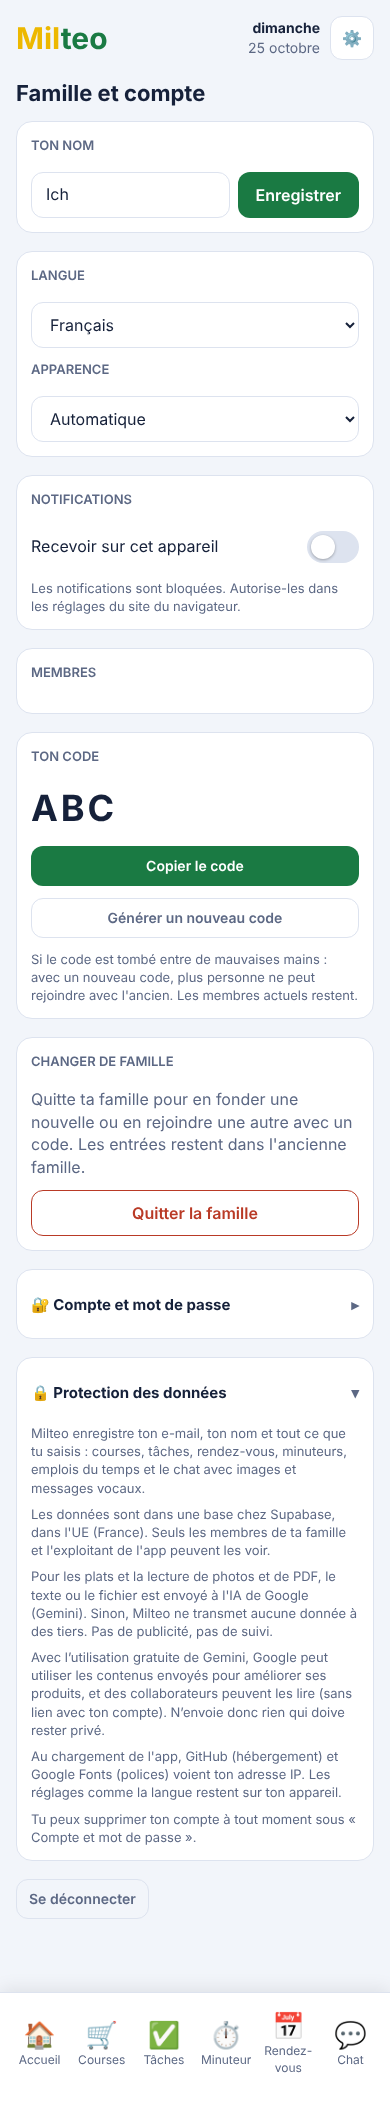
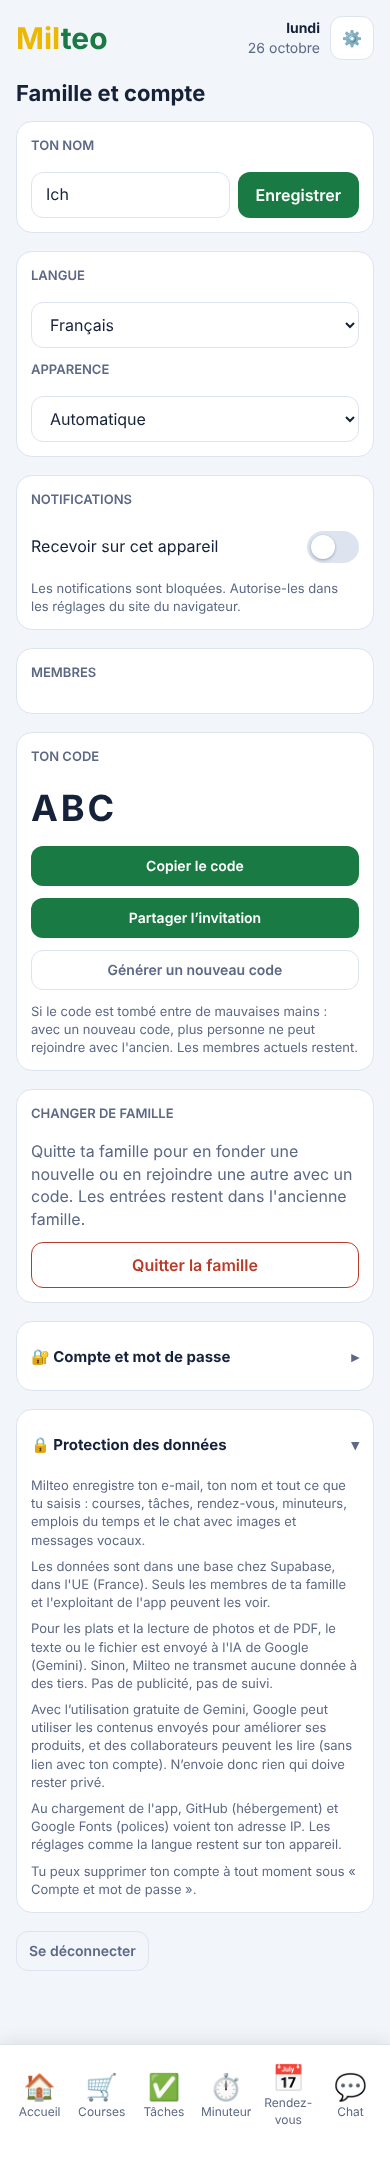
Schritt 10: Rollen (Admin/Mitglied), Mitglieder verwalten, Einladungslink
Claude-Session: https://claude.ai/code/session_017jd6qMoayf2hqt6XYe68pU

diff --git a/index.html b/index.html
@@ -552,8 +552,10 @@ input.switch:focus-visible { outline-offset: 3px; }
         <p class="field-label">Dein Code</p>
         <div class="code" id="fam-code">-</div>
         <button class="btn small" id="fam-copy" type="button">Code kopieren</button>
+        <button class="btn small" id="fam-share" type="button">Einladung teilen</button>
         <button class="btn ghost small" id="fam-newcode" type="button">Neuen Code erzeugen</button>
-        <p class="hint">Falls der Code in falsche Hände geraten ist: Mit einem neuen Code können keine weiteren Personen mit dem alten beitreten. Aktuelle Mitglieder bleiben dabei.</p>
+        <p class="hint" id="fam-newcode-hint">Falls der Code in falsche Hände geraten ist: Mit einem neuen Code können keine weiteren Personen mit dem alten beitreten. Aktuelle Mitglieder bleiben dabei.</p>
+        <p class="hint" id="fam-admin-only" hidden>Nur Admins können einen neuen Code erzeugen und Mitglieder verwalten.</p>
       </div>
       <div class="card">
         <p class="field-label">Familie wechseln</p>
@@ -1137,7 +1139,7 @@ input.switch:focus-visible { outline-offset: 3px; }
       if (!row) {
         appReady = false; try { localStorage.removeItem('milteo_fam'); } catch (_) {}
         document.getElementById('fam-hello').textContent = T('Hallo') + ' ' + myName;
-        showScreen('family');
+        showScreen('family'); prefillInvite();
         return;
       }
       fid = row.family_id;
@@ -1405,10 +1407,25 @@ input.switch:focus-visible { outline-offset: 3px; }
   document.getElementById('fam-newcode').onclick = async () => {
     if (!confirm(T('Neuen Familiencode erzeugen? Der alte Code funktioniert danach nicht mehr. Aktuelle Mitglieder bleiben in der Familie.'))) return;
     const r = await sb.rpc('regenerate_family_code');
-    if (r.error || !r.data) { toast(T('Das hat nicht geklappt')); return; }
+    if (r.error || !r.data) { toast(roleErr(r.error)); return; }
     document.getElementById('fam-code').textContent = r.data;
     toast(T('Neuer Code: ') + r.data, 5000);
   };
+  document.getElementById('fam-share').onclick = async () => {
+    const code = document.getElementById('fam-code').textContent.trim();
+    const url = location.origin + location.pathname + '?code=' + encodeURIComponent(code);
+    const text = T('Komm in unsere Familie bei Milteo! Code: {code}', { code }) + '\n' + url;
+    try { if (navigator.share) { await navigator.share({ title: 'Milteo', text }); return; } } catch (e) { if (e && e.name === 'AbortError') return; }
+    try { await navigator.clipboard.writeText(text); toast(T('Einladung kopiert!')); } catch (_) { toast(T('Das hat nicht geklappt')); }
+  };
+  // Einladungslink: ?code=XXXX füllt das Beitritts-Feld vor
+  try {
+    const pc = new URLSearchParams(location.search).get('code');
+    if (pc) { sessionStorage.setItem('milteo_invite', pc.slice(0, 20)); history.replaceState(null, '', location.pathname); }
+  } catch (_) {}
+  function prefillInvite() {
+    try { const c = sessionStorage.getItem('milteo_invite'); const el = document.getElementById('in-code'); if (c && el && !el.value) el.value = c; } catch (_) {}
+  }
   document.getElementById('fam-copy').onclick = () => {
     navigator.clipboard.writeText(document.getElementById('fam-code').textContent);
     toast(T('Code kopiert!'));
@@ -1418,13 +1435,55 @@ input.switch:focus-visible { outline-offset: 3px; }
   async function loadMembers() {
     if (!fid) return;
     lastMembers = Date.now();
-    const r = await sb.from('members').select('user_id, display_name, created_at').eq('family_id', fid).order('created_at');
+    let r = await sb.from('members').select('user_id, display_name, created_at, role').eq('family_id', fid).order('created_at');
+    if (r.error) r = await sb.from('members').select('user_id, display_name, created_at').eq('family_id', fid).order('created_at');
     const el = document.getElementById('list-members');
     if (!r.error) { memberCount = r.data.length; memberNames = {}; r.data.forEach(m => { memberNames[m.user_id] = m.display_name || ''; }); renderAll(); }
     if (r.error) { el.innerHTML = '<div class="empty">' + T('Mitglieder konnten nicht geladen werden.') + '</div>'; return; }
-    el.innerHTML = '<ul class="list">' + r.data.map(m => `
-      <li class="row"><span class="txt">${esc(m.display_name || T('Ohne Namen'))}${m.user_id === myId ? `<span class="who">${T('(du)')}</span>` : ''}</span></li>`).join('') + '</ul>';
+    const hasRoles = r.data.some(m => m.role);
+    const me = r.data.find(m => m.user_id === myId);
+    const iAmAdmin = !!(me && me.role === 'admin');
+    applyRoleUi(hasRoles, iAmAdmin);
+    el.innerHTML = '<ul class="list">' + r.data.map(m => {
+      const adm = m.role === 'admin';
+      const badge = hasRoles ? `<span class="who">${adm ? T('Admin') : T('Mitglied')}</span>` : '';
+      let btns = '';
+      if (iAmAdmin && m.user_id !== myId) {
+        btns = `<div style="display:flex; gap:6px; flex-wrap:wrap; margin-top:6px;">
+          <button class="btn ghost small" type="button" data-mrole="${esc(m.user_id)}" data-to="${adm ? 'member' : 'admin'}">${adm ? T('Admin-Rechte entziehen') : T('Zum Admin machen')}</button>
+          <button class="btn danger small" type="button" data-mrem="${esc(m.user_id)}" data-name="${esc(m.display_name || '')}">${T('Aus Familie entfernen')}</button></div>`;
+      }
+      return `<li class="row" style="flex-wrap:wrap"><span class="txt">${esc(m.display_name || T('Ohne Namen'))}${m.user_id === myId ? `<span class="who">${T('(du)')}</span>` : ''}${badge}</span>${btns}</li>`;
+    }).join('') + '</ul>';
   }
+  function applyRoleUi(hasRoles, iAmAdmin) {
+    const canCode = !hasRoles || iAmAdmin;
+    document.getElementById('fam-newcode').hidden = !canCode;
+    document.getElementById('fam-newcode-hint').hidden = !canCode;
+    document.getElementById('fam-admin-only').hidden = canCode;
+  }
+  function roleErr(err) {
+    const m = String((err && err.message) || '');
+    if (/last admin/i.test(m)) return T('Es muss mindestens ein Admin übrig bleiben.');
+    if (/not allowed/i.test(m)) return T('Das dürfen nur Admins.');
+    return T('Das hat nicht geklappt');
+  }
+  document.getElementById('list-members').addEventListener('click', async (e) => {
+    const b = e.target.closest('button'); if (!b) return;
+    if (b.dataset.mrole) {
+      const r = await sb.rpc('set_member_role', { p_user: b.dataset.mrole, p_role: b.dataset.to });
+      if (r.error) { toast(roleErr(r.error)); return; }
+      toast(b.dataset.to === 'admin' ? T('Ist jetzt Admin.') : T('Ist kein Admin mehr.'));
+      loadMembers();
+    } else if (b.dataset.mrem) {
+      const nm = b.dataset.name || T('Ohne Namen');
+      if (!confirm(T('{name} wirklich aus der Familie entfernen? Die Einträge bleiben erhalten.', { name: nm }))) return;
+      const r = await sb.rpc('remove_member', { p_user: b.dataset.mrem });
+      if (r.error) { toast(roleErr(r.error)); return; }
+      toast(T('{name} wurde entfernt.', { name: nm }));
+      loadMembers();
+    }
+  });
 
   // ---------- Daten (Tabelle "entries") ----------
   const esc = s => String(s).replace(/[&<>"']/g, c => ({'&':'&amp;','<':'&lt;','>':'&gt;','"':'&quot;',"'":'&#39;'}[c]));

diff --git a/i18n.js b/i18n.js
@@ -343,6 +343,21 @@
     ['Fortsetzen: {name}', 'Продолжи: {name}', 'Reprendre : {name}', 'Riprendi: {name}', 'Nastavi: {name}', 'Vazhdo: {name}', 'Devam et: {name}', 'Resume: {name}'],
     ['+1 Minute: {name}', '+1 минута: {name}', '+1 minute : {name}', '+1 minuto: {name}', '+1 minut: {name}', '+1 minutë: {name}', '+1 dakika: {name}', '+1 minute: {name}'],
     ['Nochmal starten: {name}', 'Стартувај повторно: {name}', 'Relancer : {name}', 'Riavvia: {name}', 'Pokreni ponovo: {name}', 'Nise përsëri: {name}', 'Yeniden başlat: {name}', 'Restart: {name}'],
+    ['Admin', 'Админ', 'Admin', 'Admin', 'Admin', 'Admin', 'Yönetici', 'Admin'],
+    ['Mitglied', 'Член', 'Membre', 'Membro', 'Član', 'Anëtar', 'Üye', 'Member'],
+    ['Zum Admin machen', 'Направи го админ', 'Nommer admin', 'Rendi admin', 'Postavi za admina', 'Bëje admin', 'Yönetici yap', 'Make admin'],
+    ['Admin-Rechte entziehen', 'Одземи админ права', 'Retirer les droits d’admin', 'Rimuovi i diritti di admin', 'Ukloni admin prava', 'Hiq të drejtat e adminit', 'Yönetici yetkisini al', 'Remove admin rights'],
+    ['Aus Familie entfernen', 'Отстрани од семејството', 'Retirer de la famille', 'Rimuovi dalla famiglia', 'Ukloni iz porodice', 'Hiq nga familja', 'Aileden çıkar', 'Remove from family'],
+    ['Es muss mindestens ein Admin übrig bleiben.', 'Мора да остане барем еден админ.', 'Il doit rester au moins un admin.', 'Deve restare almeno un admin.', 'Mora da ostane bar jedan admin.', 'Duhet të mbetet të paktën një admin.', 'En az bir yönetici kalmalı.', 'At least one admin must remain.'],
+    ['Das dürfen nur Admins.', 'Ова можат само админите.', 'Seuls les admins peuvent faire cela.', 'Solo gli admin possono farlo.', 'Ovo mogu samo admini.', 'Këtë mund ta bëjnë vetëm adminët.', 'Bunu sadece yöneticiler yapabilir.', 'Only admins can do this.'],
+    ['Ist jetzt Admin.', 'Сега е админ.', 'Est maintenant admin.', 'Ora è admin.', 'Sada je admin.', 'Tani është admin.', 'Artık yönetici.', 'Is now an admin.'],
+    ['Ist kein Admin mehr.', 'Повеќе не е админ.', 'N’est plus admin.', 'Non è più admin.', 'Više nije admin.', 'Nuk është më admin.', 'Artık yönetici değil.', 'Is no longer an admin.'],
+    ['{name} wirklich aus der Familie entfernen? Die Einträge bleiben erhalten.', 'Навистина да се отстрани {name} од семејството? Записите остануваат.', 'Vraiment retirer {name} de la famille ? Les entrées sont conservées.', 'Rimuovere davvero {name} dalla famiglia? Le voci restano.', 'Zaista ukloniti {name} iz porodice? Unosi ostaju.', 'Ta heqësh vërtet {name} nga familja? Shënimet mbeten.', '{name} gerçekten aileden çıkarılsın mı? Kayıtlar korunur.', 'Really remove {name} from the family? The entries stay.'],
+    ['{name} wurde entfernt.', '{name} е отстранет.', '{name} a été retiré.', '{name} è stato rimosso.', '{name} je uklonjen.', '{name} u hoq.', '{name} çıkarıldı.', '{name} was removed.'],
+    ['Einladung teilen', 'Сподели покана', 'Partager l’invitation', 'Condividi invito', 'Podeli pozivnicu', 'Ndaj ftesën', 'Daveti paylaş', 'Share invite'],
+    ['Einladung kopiert!', 'Поканата е копирана!', 'Invitation copiée !', 'Invito copiato!', 'Pozivnica kopirana!', 'Ftesa u kopjua!', 'Davet kopyalandı!', 'Invite copied!'],
+    ['Komm in unsere Familie bei Milteo! Code: {code}', 'Дојди во нашето семејство на Milteo! Код: {code}', 'Rejoins notre famille sur Milteo ! Code : {code}', 'Entra nella nostra famiglia su Milteo! Codice: {code}', 'Pridruži se našoj porodici na Milteu! Kod: {code}', 'Bashkohu familjes sonë në Milteo! Kodi: {code}', 'Milteo’da ailemize katıl! Kod: {code}', 'Join our family on Milteo! Code: {code}'],
+    ['Nur Admins können einen neuen Code erzeugen und Mitglieder verwalten.', 'Само админите можат да создадат нов код и да управуваат со членовите.', 'Seuls les admins peuvent créer un nouveau code et gérer les membres.', 'Solo gli admin possono creare un nuovo codice e gestire i membri.', 'Samo admini mogu da naprave novi kod i upravljaju članovima.', 'Vetëm adminët mund të krijojnë kod të ri dhe të menaxhojnë anëtarët.', 'Yeni kodu ve üyeleri sadece yöneticiler yönetebilir.', 'Only admins can create a new code and manage members.'],
     ['__end__', '', '', '', '', '', '', '']
   ];
   R.pop();

diff --git a/tests/test_rollen.py b/tests/test_rollen.py
@@ -1,0 +1,98 @@
+import os
+HERE = os.path.dirname(os.path.abspath(__file__))
+ROOT = os.path.dirname(HERE)
+URL = 'file://' + ROOT + '/index.html'
+from playwright.sync_api import sync_playwright
+base = open(os.path.join(HERE, 'stub7.js'), encoding='utf-8').read()
+# Mitglieder mit Rollen + aufgezeichnete Rollen-Aufrufe
+extra = """
+(() => {
+  const orig = window.supabase.createClient;
+  window.__members = [
+    {user_id:'me', display_name:'Ich', created_at:'2026-01-01', role:'admin'},
+    {user_id:'u2', display_name:'Papa', created_at:'2026-01-02', role:'member'},
+    {user_id:'u3', display_name:'Oma', created_at:'2026-01-03', role:'admin'}];
+  window.__roleCalls = []; window.__roleErr = null; window.__noRoleCol = false;
+  window.supabase.createClient = (...a) => {
+    const c = orig(...a); const of = c.from; const orpc = c.rpc;
+    c.from = (t) => {
+      if (t !== 'members') return of(t);
+      let cols = '';
+      const p = new Proxy({}, { get: (_, k) => {
+        if (k === 'then') return (res) => res(window.__noRoleCol && /role/.test(cols) ? {data:null,error:{message:'column role does not exist'}} : {data: JSON.parse(JSON.stringify(window.__members)), error:null});
+        if (k === 'maybeSingle') return async () => ({ data: window.__nofam ? null : { family_id:'f', families:{code:'ABCD-EFGH'}, display_name:'Ich' }, error:null });
+        return (...x) => { if (k === 'select') cols = x[0]; return p; };
+      }});
+      return p;
+    };
+    c.rpc = async (n, args) => {
+      if (n === 'set_member_role' || n === 'remove_member' || n === 'regenerate_family_code') {
+        window.__roleCalls.push([n, args]);
+        if (window.__roleErr) return {data:null, error:{message: window.__roleErr}};
+        return {data: n === 'regenerate_family_code' ? 'NEUE-CODE' : null, error:null};
+      }
+      return orpc(n, args);
+    };
+    return c;
+  };
+})();
+"""
+stub = base + extra
+ok = True
+def check(name, cond):
+    global ok; ok = ok and bool(cond); print(('PASS ' if cond else 'FAIL ') + name)
+def mk(b, init, url=URL):
+    ctx = b.new_context(viewport={'width':390,'height':780}, has_touch=True, is_mobile=True)
+    pg = ctx.new_page(); errs = []
+    pg.on('pageerror', lambda e: errs.append(str(e)))
+    pg.route('**/supabase.min.js', lambda r: r.fulfill(body=stub, content_type='text/javascript'))
+    pg.route('**/fonts.googleapis.com/**', lambda r: r.fulfill(body='', content_type='text/css'))
+    pg.add_init_script(init)
+    pg.on('dialog', lambda d: d.accept())
+    pg.goto(url); pg.wait_for_timeout(800)
+    return pg, errs
+SESS = "window.__sess={user:{id:'me',email:'a@b.ch',user_metadata:{name:'Ich'}}};"
+with sync_playwright() as p:
+    b = p.chromium.launch()
+    # Admin-Sicht
+    pg, errs = mk(b, SESS)
+    pg.evaluate("switchTab('family')"); pg.wait_for_timeout(500)
+    t = pg.inner_text('#list-members')
+    check('Rollen-Abzeichen sichtbar', 'Admin' in t and 'Mitglied' in t)
+    check('Admin sieht Buttons für andere (2x2), nicht für sich', pg.locator('[data-mrole]').count() == 2 and pg.locator('[data-mrem]').count() == 2)
+    check('Neuer-Code-Knopf sichtbar für Admin', pg.is_visible('#fam-newcode'))
+    pg.click('[data-mrole=u2]'); pg.wait_for_timeout(300)
+    check('Zum Admin machen -> rpc set_member_role admin', pg.evaluate("JSON.stringify(window.__roleCalls[0])") == '["set_member_role",{"p_user":"u2","p_role":"admin"}]')
+    pg.click('[data-mrem=u2]'); pg.wait_for_timeout(300)
+    check('Entfernen -> rpc remove_member', pg.evaluate("JSON.stringify(window.__roleCalls[1])") == '["remove_member",{"p_user":"u2"}]')
+    pg.evaluate("window.__roleErr='last admin'"); pg.click('[data-mrole=u3]'); pg.wait_for_timeout(300)
+    toast = pg.inner_text('#toast') if pg.locator('#toast').count() else ''
+    print('   Toast:', toast)
+    check('Fehler «last admin» freundlich', 'mindestens ein Admin' in toast)
+    pg.evaluate("window.__roleErr='not allowed'"); pg.click('#fam-newcode'); pg.wait_for_timeout(300)
+    toast = pg.inner_text('#toast')
+    check('Fehler «not allowed» freundlich, kein Technik-Text', 'nur Admins' in toast and 'not allowed' not in toast)
+    check('keine JS-Fehler (Admin)', not errs)
+    # Normales Mitglied
+    pg, errs = mk(b, SESS + "window.__pre=1;")
+    pg.evaluate("window.__members[0].role='member'; window.__members[1].role='admin'; loadMembers()"); pg.evaluate("switchTab('family')"); pg.wait_for_timeout(600)
+    check('Mitglied: keine Verwaltungs-Buttons', pg.locator('[data-mrole]').count() == 0 and pg.locator('[data-mrem]').count() == 0)
+    check('Mitglied: Neuer-Code-Knopf versteckt, Hinweis da', not pg.is_visible('#fam-newcode') and pg.is_visible('#fam-admin-only'))
+    check('Mitglied: Einladung teilen weiterhin da', pg.is_visible('#fam-share'))
+    # Alter Stand ohne Rollen-Spalte (Fallback)
+    pg, errs = mk(b, SESS + "window.__noRoleCol=true;")
+    pg.evaluate("switchTab('family')"); pg.wait_for_timeout(500)
+    check('ohne Rollen-Spalte: Liste trotzdem da, Code-Knopf bleibt', 'Papa' in pg.inner_text('#list-members') and pg.is_visible('#fam-newcode') and not errs)
+    # Einladung teilen (Fallback Zwischenablage)
+    pg, errs = mk(b, SESS + "window.__cp=null; Object.defineProperty(navigator,'share',{value:undefined,configurable:true}); Object.defineProperty(navigator,'clipboard',{value:{writeText:async t=>{window.__cp=t}},configurable:true});")
+    pg.evaluate("switchTab('family')"); pg.click('#fam-share'); pg.wait_for_timeout(300)
+    cp = pg.evaluate("window.__cp") or ''
+    print('   Zwischenablage:', cp.replace('\n', ' | '))
+    check('Einladungstext enthält Code und Link ?code=', 'ABCD-EFGH' in cp and '?code=ABCD-EFGH' in cp)
+    # Link ?code= füllt Beitrittsfeld
+    pg, errs = mk(b, "window.__sess={user:{id:'neu',email:'n@b.ch',user_metadata:{name:'Neu'}}}; window.__nofam=1;", URL + '?code=WXYZ-1234')
+    fv = pg.evaluate("document.getElementById('in-code').value")
+    check('Einladungslink füllt Code-Feld vor', fv == 'WXYZ-1234' and 'code=' not in pg.url)
+    b.close()
+print('ALLES BESTANDEN' if ok else 'FEHLER')
+raise SystemExit(0 if ok else 1)

diff --git a/docs/BESTANDSBERICHT.md b/docs/BESTANDSBERICHT.md
@@ -106,4 +106,5 @@ Laut den Gemini-API-Bedingungen (ai.google.dev/terms, geprüft am 24.10.2026) da
 | 8 Termine: Ort, Wiederholung, Wochenansicht, Bearbeiten | `index.html`, `i18n.js` (13 neue Texte in 8 Sprachen) | Automatisch mit simuliertem Server (alle bestanden): Wiederholungs-Berechnung (Monatsende, Schaltjahr), Speichern von Ort/Wiederholung, Weiterrücken von Wiederholungen (Erinnerung wird neu gesetzt, einmalige Termine bleiben), Bearbeiten inkl. Entfernen, Eingabe bleibt bei Neuladen erhalten, Wochenansicht inkl. Folgewochen, Englisch. Frühere Tests und Prüfer unverändert. **Nicht getestet:** echtes Handy (Datum-/Zeitauswahl, Karten-Link), Erinnerungen auf dem Server für wiederholte Termine; Übersetzungen (mk, sr, sq, tr) von mir. |
 | 8b Server: Wiederholung in `tick` | Edge-Function `tick` v6 (keine DB-Änderung) | Rechenregel mit 9 Beispielen geprüft (Monatsende, Schaltjahr, Jahreswechsel; identisch zur App), Funktion bereitgestellt, danach laufen die Minuten-Aufrufe weiter mit Status 200 und neuem Zähler `rolled`. **Nicht getestet:** Weiterrücken an einem echten wiederkehrenden Termin (es gibt noch keinen in der Familie). |
 | 9 Timer: pausieren, fortsetzen, +1 Minute, nochmal | `index.html`, `i18n.js` (6 neue Texte in 8 Sprachen) | Automatisch mit simuliertem Server (alle bestanden): Dauer wird gespeichert, Pause (Rest bleibt stehen), +1 Minute im Pausenmodus, Fortsetzen, Nochmal nach Ablauf, Startseite. Frühere Tests und Prüfer unverändert. **Nicht getestet:** echtes Handy; Mitteilung nach Fortsetzen auf dem Server (Logik unverändert, Endzeit wird neu gesetzt); Übersetzungen (mk, sr, sq, tr) von mir. |
-| 12 Aufräumen und Tests | `index.html`, `tests/` (neu), `sw (1).js` gelöscht | Alle 8 Testdateien laufen aus dem Projektordner und bestehen; Prüfer unverändert (nur Logo-Kontrast). Seitenaufbau: Anzahl öffnender und schliessender `<div>` jetzt gleich (83/83). **Nicht abgedeckt:** echte Geräte, Push, echte Supabase-Verbindung. |
+| 10 Rollen und Einladungen | `index.html`, `i18n.js` (14 neue Texte in 8 Sprachen), `docs/sql/schritt10_rollen.sql` (Datenbank, mit Freigabe ausgeführt) | Neue Spalte «Rolle» (Admin/Mitglied); Ersteller sind Admins; nur Admins erzeugen neuen Code, ernennen Admins und entfernen Mitglieder; der letzte Admin kann nicht fehlen. In der App: Rollen-Abzeichen, Verwalten-Knöpfe, «Einladung teilen» mit Link. Geprüft: 9 Regelfälle direkt in der Datenbank (zurückgerollt, Datenmengen unverändert) und neuer Browser-Test `test_rollen.py`. Nicht auf echten Geräten getestet. Hinweis: 3 Funktionen wurden wegen einer Tool-Sperre mit zusammengesetztem Wort «DELETE» installiert; die SQL-Datei enthält die schlichte Form. |
+| 12 Aufräumen und Tests | `index.html`, `tests/` (neu), `sw (1).js` gelöscht | Alle Testdateien laufen aus dem Projektordner und bestehen; Prüfer unverändert (nur Logo-Kontrast). Seitenaufbau: Anzahl öffnender und schliessender `<div>` jetzt gleich (83/83). **Nicht abgedeckt:** echte Geräte, Push, echte Supabase-Verbindung. |
